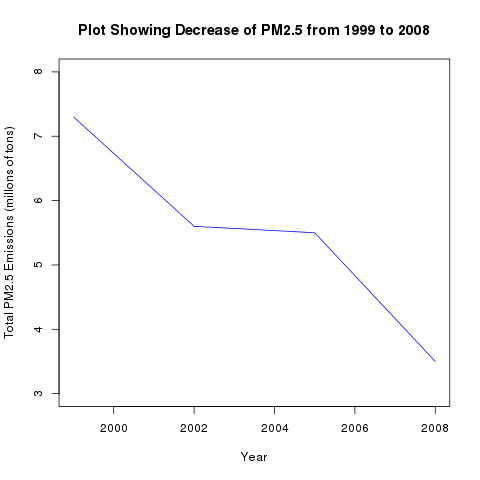
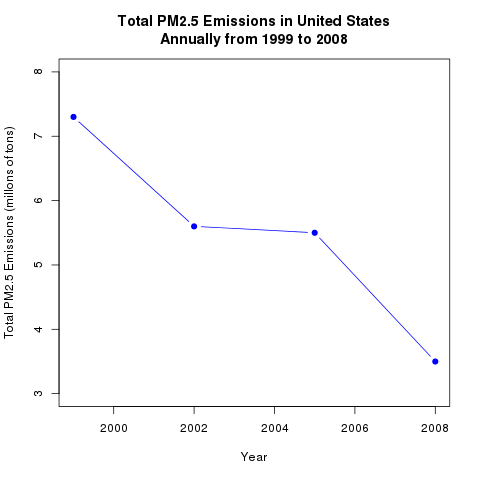
Added R scripts for plots one and two.

Changed region(s): [[0.1562, 0.0312, 0.9062, 0.0938], [0.625, 0.4688, 0.6562, 0.5], [0.125, 0.2188, 0.1562, 0.25]]

diff --git a/README.md b/README.md
@@ -1,2 +1,4 @@
-# exdata_project2
-Project 2 for Exdata-014
+# Exploratory Data Analysis - Project 2
+
+Project files for project two. If it is before the due date of the project and you are in the same course, you should not be viewing this repository.
+
